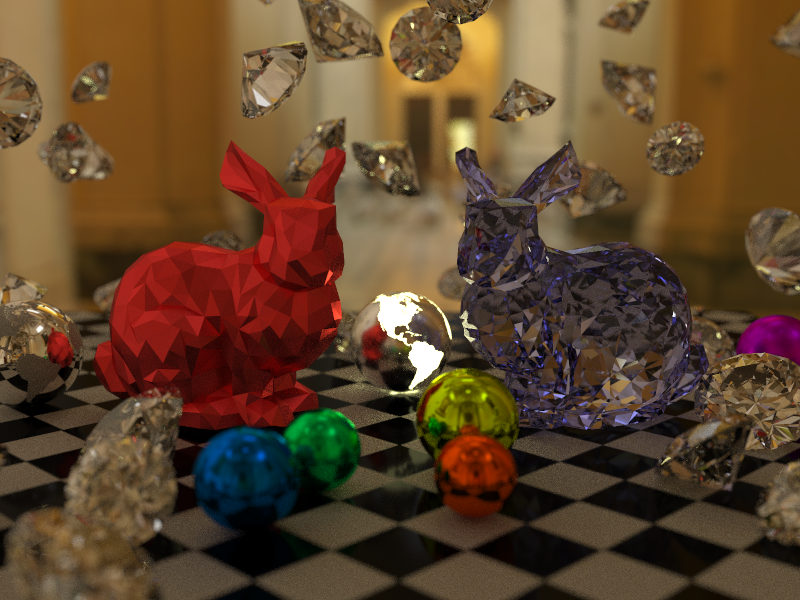
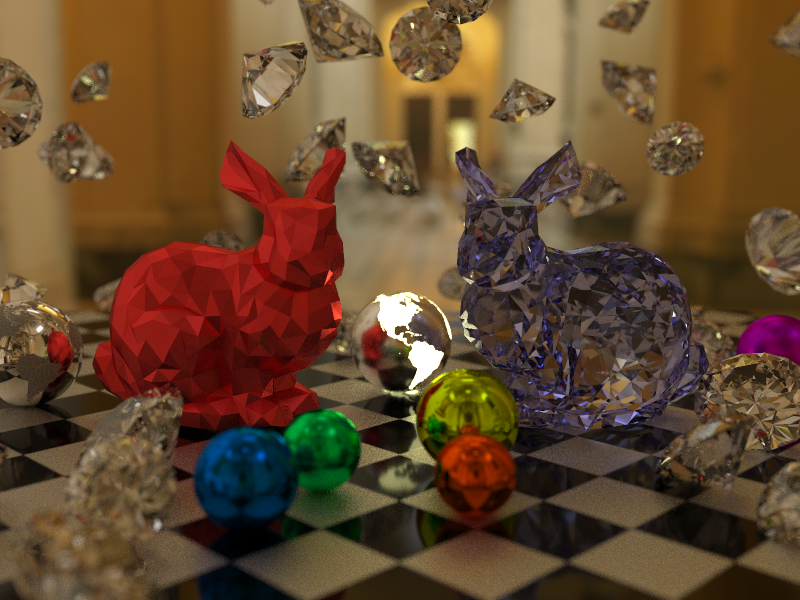
Add 2d textures: checkered_diagonal_10

diff --git a/src/main.rs b/src/main.rs
@@ -200,10 +200,10 @@ fn init_scene() -> (Camera, Scene) {
                     //albedo:  Texture::white(),
                     //albedo: Texture::from_path("textures/2d/stone03.jpg"),
                     //albedo: Texture::from_path("textures/2d/checkered_v2_512.png"),
-                    albedo: Texture::from_path("textures/2d/checkered_diagonal_12_0.3_1.0_512.png"),
+                    albedo: Texture::from_path("textures/2d/checkered_diagonal_10_0.5_1.0_512.png"),
                     emission: Texture::black(),
                     //roughness: Texture::white(),
-                    roughness: Texture::from_path("textures/2d/checkered_diagonal_12_0.1_0.9_512.png"),
+                    roughness: Texture::from_path("textures/2d/checkered_diagonal_10_0.1_0.6_512.png"),
                 }
             }),
         ],
